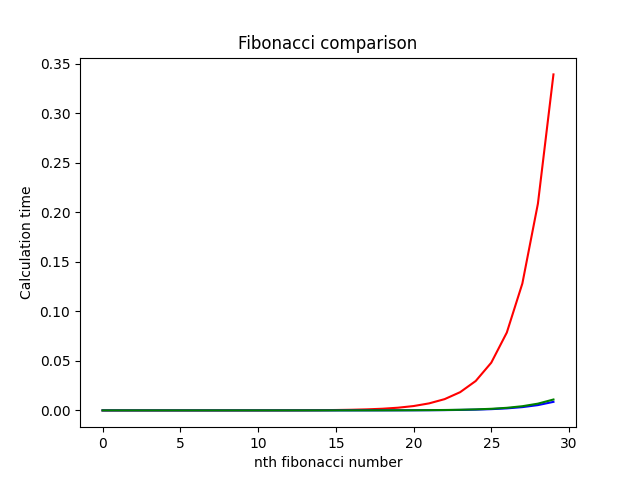
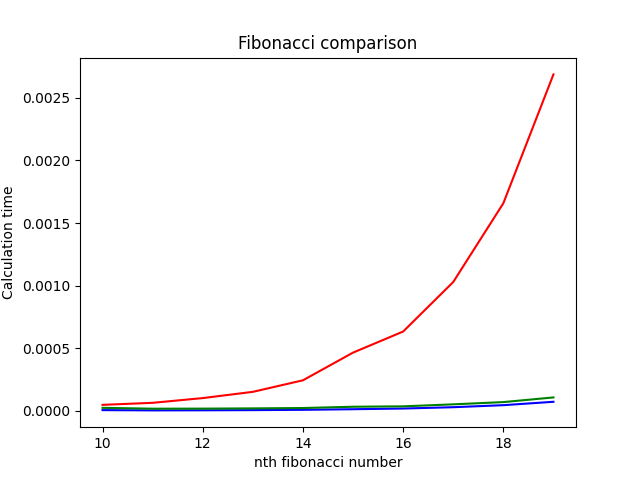
new plot

diff --git a/MA4_2.py b/MA4_2.py
@@ -20,7 +20,7 @@ def main():
 	python_time = []
 	numba_time = []
 	cpp_time = []
-	for n in range(30):
+	for n in range(10,20):
 		x_axis.append(n)
 
 		# Python
